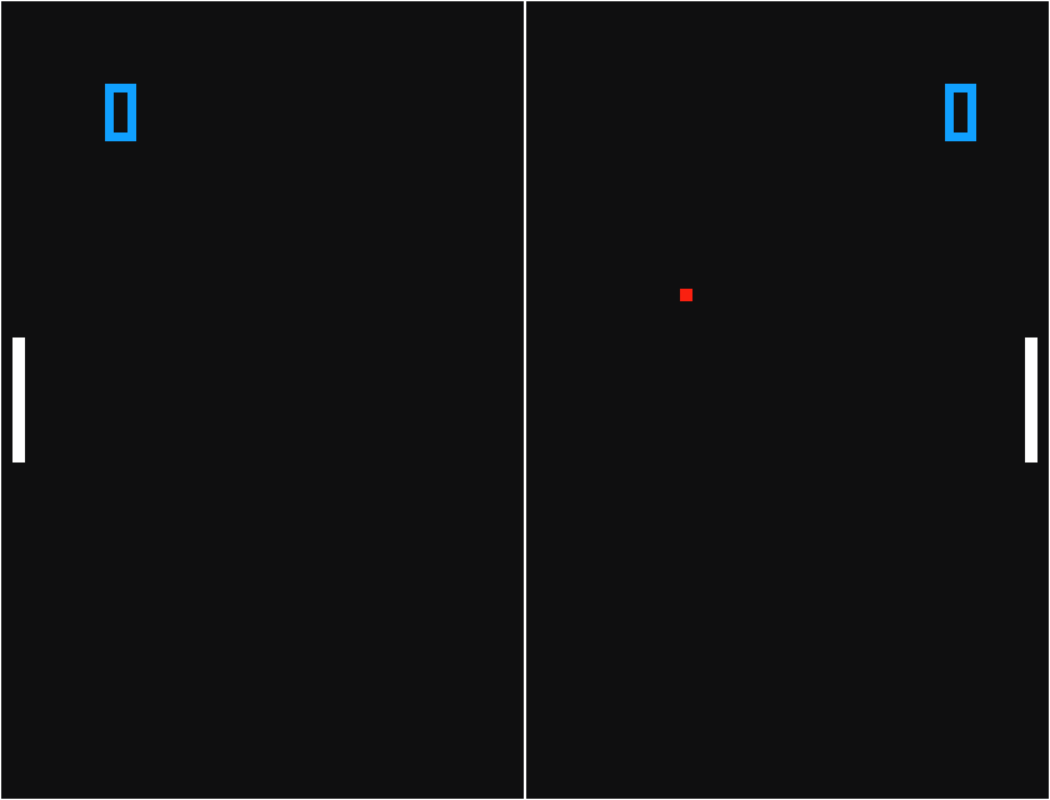
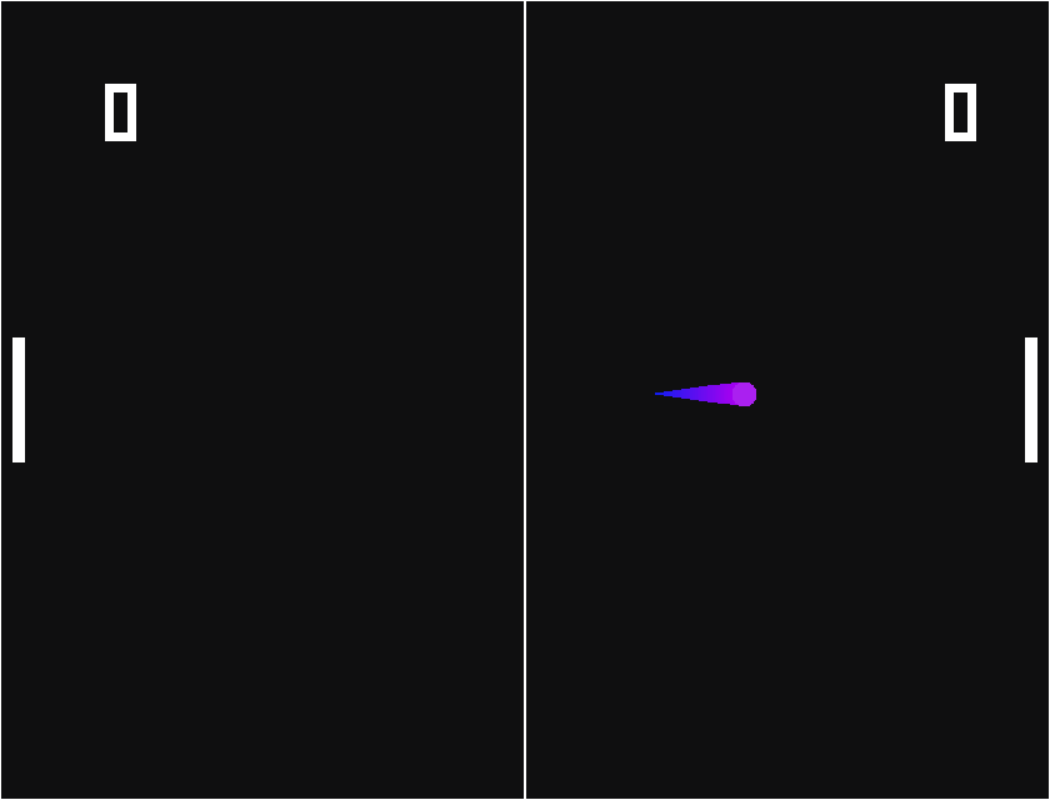
Refactoring puck is circle now, better prng

diff --git a/Src/puck.cpp b/Src/puck.cpp
@@ -1,80 +1,96 @@
+// #include <iostream>
+
 #include "puck.hpp"
 #include "utils.hpp"
 
-#include <iostream>
-
-
 Puck::Puck() {}
 
-Puck::Puck(float x, float y, float w, float h, uint32_t color) {	
-	this->w = w;
-	this->h = h;
-	this->color = color;
+Puck::Puck(float x0, float y0, float width, float height, uint32_t c) {	
+	w = width;
+	h = height;
+	color = c;
 
-	this->x = x;
-	this->y = y;
+	x = x0;
+	y = y0;
 
-	this->velX = 0.f;
-	this->velY = 0.f;
+	velX = 0.f;
+	velY = 0.f;
 
-	this->_rect = SDL_Rect{(int)x, (int)y, (int)(w), (int)(h)};
+	_rect = SDL_Rect{(int)x, (int)y, (int)(w), (int)(h)};
 
 	// trials
-	this->trail_color = color;
-	this->trails_itr = 0;
-	this->trails_x = new float[TRAIL_SIZE];
-	this->trails_y = new float[TRAIL_SIZE];
-	this->_trail_rect = SDL_Rect{(int)x, (int)y, (int)(w), (int)(h)};
+	trail_color = color;
+
+	trails_itr = 0;
+	trails_x = new float[TRAIL_SIZE];
+	trails_y = new float[TRAIL_SIZE];
+	_trail_rect = SDL_Rect{(int)x, (int)y, (int)(w), (int)(h)};
 }
 
 void Puck::resetTrails() {
-	this->trails_itr = 0;
+	trails_itr = 0;
 }
 
 void Puck::update() {
 	// Eulers integration
-	this->x += this->velX;
-	this->y += this->velY;
+	x += velX;
+	y += velY;
 
-	this->_rect.x = x;
-	this->_rect.y = y;
+	_rect.x = x;
+	_rect.y = y;
 
-	if (this->trails_itr < TRAIL_SIZE) {
-		this->trails_x[this->trails_itr] = x;
-		this->trails_y[this->trails_itr++] = y;
+	if (trails_itr < TRAIL_SIZE) {
+		trails_x[trails_itr] = x;
+		trails_y[trails_itr++] = y;
 	}
 
 	else {
-		shiftLeft2Arrays(this->trails_x, this->trails_y, TRAIL_SIZE);
+		shiftLeft2Arrays(trails_x, trails_y, TRAIL_SIZE);
 
-		this->trails_x[TRAIL_SIZE-1] = x;
-		this->trails_y[TRAIL_SIZE-1] = y;
+		trails_x[TRAIL_SIZE-1] = x;
+		trails_y[TRAIL_SIZE-1] = y;
 	}
+}
+
+
+void Puck::drawCircle(SDL_Renderer* renderer, SDL_Rect &rect) {
+    int xSt = rect.x-rect.w;
+    int xEn = rect.x+rect.h;
+    int ySt = rect.y-rect.w;
+    int yEn = rect.y+rect.h;
+
+    for (int py = ySt; py < yEn; py++){
+        for (int px = xSt; px < xEn; px++) {
+            
+            if ( (sq(px-rect.x) + sq(py-rect.y)) < sq(PUCK_RAD) ) {
+                SDL_RenderDrawPoint(renderer, px, py);
+            }
+        }
+    }
 }
 
 
 void Puck::draw(SDL_Renderer* renderer) {
 	uint8_t cR, cG, cB, cA;
 	uint32_t tColor;
-
 	float t;
 
-	for (int i=0; i<this->trails_itr; i++) {
-		t = (float)i/this->trails_itr;
+ 
+	for (int i=0; i<trails_itr; i++) {
+		t = (float)i/trails_itr;
 
-		this->_trail_rect.x = this->trails_x[i];
-		this->_trail_rect.y = this->trails_y[i];
+		_trail_rect.x = trails_x[i];
+		_trail_rect.y = trails_y[i];
+		_trail_rect.w = (int)(w)*t;
+		_trail_rect.h = (int)(h)*t;
 
-		this->_trail_rect.w = (int) ((this->w)*t);
-		this->_trail_rect.h = (int) ((this->h)*t);
-
-		toComponents(this->trail_color, cR, cG, cB, cA);
+		toComponents(trail_color, cR, cG, cB, cA);
 		fromComponents(tColor, (uint8_t) cR*(t), (uint8_t) cG*(1-t), cB, cA);
-
+	
 		SDL_SetRenderDrawColor(renderer, to8BPC(tColor));
-		SDL_RenderFillRect(renderer, &(this->_trail_rect));
+		this->drawCircle(renderer, _trail_rect);
 	}
 
-	SDL_SetRenderDrawColor(renderer, to8BPC(this->color));
-	SDL_RenderFillRect(renderer, &(this->_rect));
+	SDL_SetRenderDrawColor(renderer, to8BPC(color));
+	this->drawCircle(renderer, _rect);
 }

diff --git a/Src/main.cpp b/Src/main.cpp
@@ -46,6 +46,9 @@ class App {
         SDL_Renderer* renderer = nullptr;
         SDL_Event event;
 
+        std::random_device rd;
+        std::uniform_int_distribution<int> dist = std::uniform_int_distribution<int>(0, 1);
+
         const char* fontPath = "./Res/Brickshapers.ttf";
     
         bool is_running = false;
@@ -87,7 +90,7 @@ class App {
                 std::cout << "Can't initiate Renderer";
                 exit(EXIT_FAILURE);
             }
-
+            
             // Game Setup
             setup();
         }
@@ -140,15 +143,12 @@ class App {
 
         // Physics
         void launchPuck() {
-            float x = 2.f * (float) rand()/RAND_MAX - 1.f;
-            float y = 2.f*(float) rand()/RAND_MAX - 1.f;
-            y /= 5.f;            
+            float x,y;
+            x = PUCK_VEL;
+            y = H*dist(rd);
 
-            float d = sqrtf((x*x) + (y*y));
-
-
-            x = PUCK_VEL * (x/d);
-            y = PUCK_VEL * (y/d);
+            float d = sqrtf(sq(W/2.f - x) + sq(H/2.f - y)); 
+            y = PUCK_VEL*y/d;
 
             puck.velX = x;
             puck.velY = y;
@@ -422,11 +422,9 @@ class App {
             std::chrono::high_resolution_clock::time_point t3;
 
             int64_t dTuS;  // Render Time (uS)
-            float dTmS;
+            int dTmS;
 
             while( is_running ) {  
-                t1 = std::chrono::high_resolution_clock::now();
-
                 // ------ Handling Events ------
                 while( SDL_PollEvent(&event) ) {
                     if(event.type == SDL_QUIT) {
@@ -441,6 +439,7 @@ class App {
                     }
                 }
 
+                t1 = std::chrono::high_resolution_clock::now();
 
                 // ------ Validation ------
                 if (gotWinner()) {
@@ -462,9 +461,9 @@ class App {
 
                 t2 = std::chrono::high_resolution_clock::now();
                 dTuS = std::chrono::duration_cast<std::chrono::microseconds>(t2 - t1).count();
-                dTmS = (float) dTuS / 1000.f;
+                dTmS = dTuS / 1000;
 
-                SDL_Delay( std::max(0, int(MSPF-dTmS) ) );
+                SDL_Delay( std::max(0, int(MSPF-dTmS)) );
             }
 
         destroyApp();

diff --git a/Src/paddle.cpp b/Src/paddle.cpp
@@ -5,21 +5,22 @@
 
 Paddle::Paddle() {}
 
-Paddle::Paddle(int x, int y, int w, int h, uint32_t color) {
-	this->x = x;
-	this->y = y;
+Paddle::Paddle(int x0, int y0, int width, int height, uint32_t c) {
+
+	x = x0;
+	y = y0;
 	
-	this->color = color;
-	this->_rect = SDL_Rect{(int)x, (int)y, (int)w, (int)h};
+	color = c;
+	_rect = SDL_Rect{x0, y0, width, height};
 }
 
 
 void Paddle::update() {
-	this->_rect.x = this->x;
-	this->_rect.y = this->y;
+	_rect.x = x;
+	_rect.y = y;
 }
 
 void Paddle::draw(SDL_Renderer* renderer) {
 	SDL_SetRenderDrawColor(renderer, to8BPC(color));
-	SDL_RenderFillRect(renderer, &(_rect));
+	SDL_RenderFillRect(renderer, &_rect);
 }

diff --git a/Src/Include/paddle.hpp b/Src/Include/paddle.hpp
@@ -10,12 +10,10 @@ class Paddle {
 	public:
 		float x;
 		float y;
-		float w;
-		float h;
 		uint32_t color;
 
 		Paddle();
-		Paddle(int x, int y, int w, int h, uint32_t color);	
+		Paddle(int x0, int y0, int width, int height, uint32_t c);	
 
 		void update();
 		void draw(SDL_Renderer* renderer);

diff --git a/Src/Include/settings.hpp b/Src/Include/settings.hpp
@@ -16,7 +16,7 @@ constexpr int MSPF = 1000.f / FPS;  // Milliseconds per frame (Ideal)
 
 #define PUCK_RAD 10.f
 #define PUCK_VEL 2.f
-#define PADDLE_VEL 3.f
+#define PADDLE_VEL 2.5f
 
 
 #define L_TEXT_POSX  W/10

diff --git a/Src/Include/puck.hpp b/Src/Include/puck.hpp
@@ -23,6 +23,8 @@ class Puck {
 		
 		void resetTrails();
 		void update();
+
+		void drawCircle(SDL_Renderer* renderer, SDL_Rect &rect);
 		void draw(SDL_Renderer* renderer);
 
 

diff --git a/Readme.md b/Readme.md
@@ -2,6 +2,8 @@
 
 A clone of a Classic Pong Game in C++.
 
+**⚠ Currently in Dev.**
+
 ## Dependencies
 
 * [SDL2](https://www.libsdl.org/)
